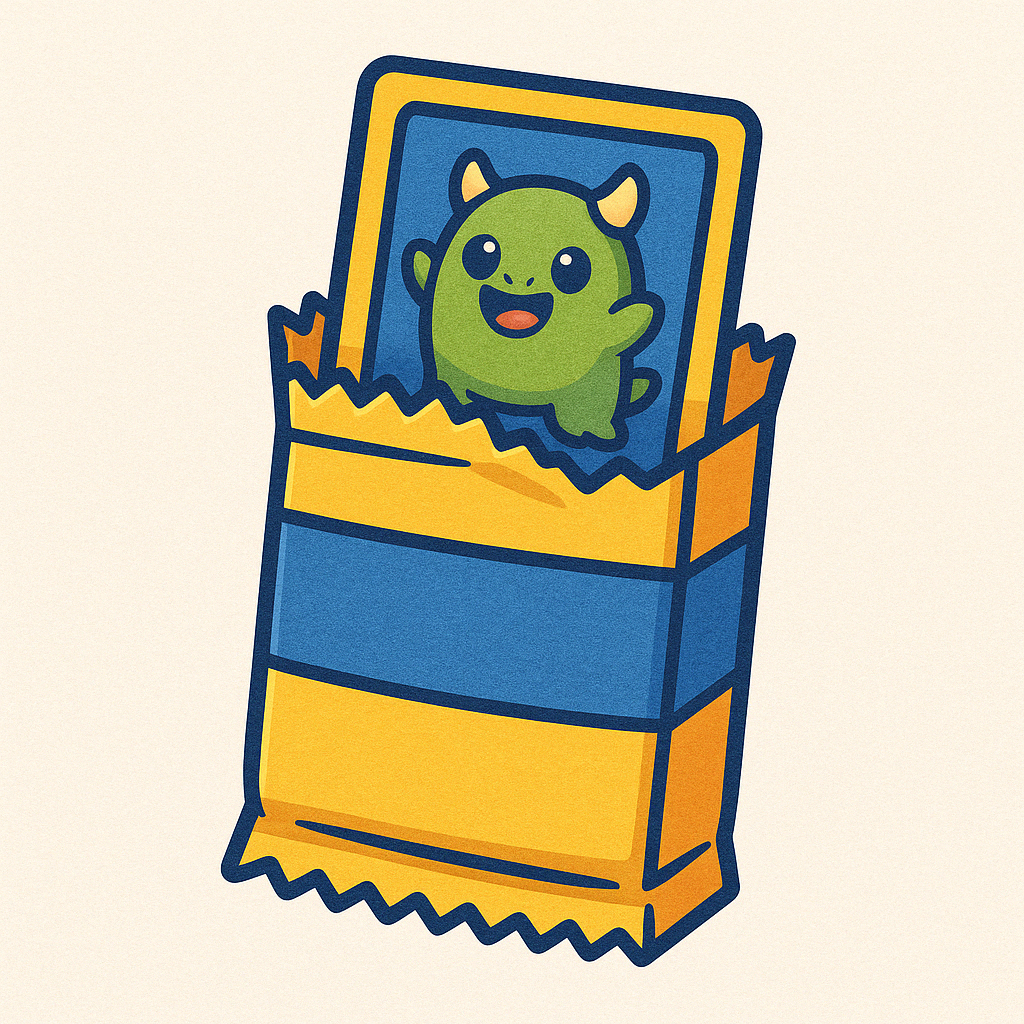
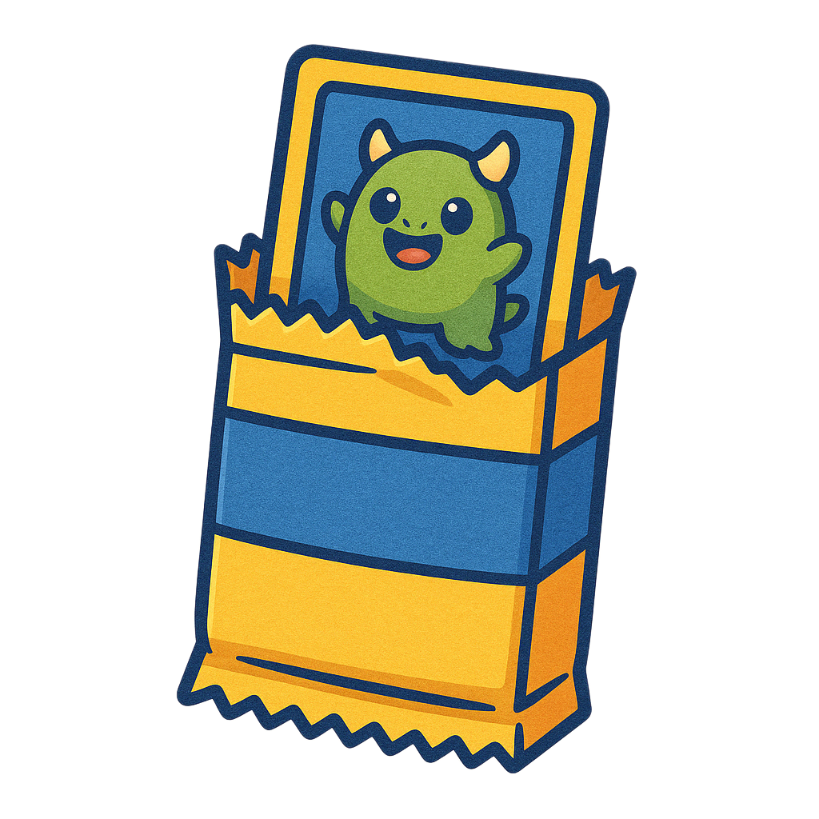
Updated search, updated all images, started to connect frontend to backend and created api search function
-Search now displays 8 of the top results side by side in a row instead of a straight column. It is also in a flex container, so it updates accordingly based on screen size.

- Change images to png so background is transparent

-So instead of calling the Pokémon TCG API directly, our frontend should now call the backend. Once we install and add CORS to Heroku.

diff --git a/TCG/screens/search.tsx b/TCG/screens/search.tsx
@@ -41,7 +41,7 @@ const Search = () => {
         },
       });
 
-      setCards(response.data.data.slice(0, 5)); // Show top 5 results
+      setCards(response.data.data.slice(0, 8)); // Show top 5 results
     } catch (error) {
       console.error(error);
       alert('No matching cards found or an error occurred.');
@@ -86,17 +86,18 @@ const Search = () => {
       </TouchableOpacity>
 
       {loading && <ActivityIndicator size="large" color="#5C3B94" />}
-
-      {cards.map((card) => (
-        <View key={card.id} style={styles.cardContainer}>
-          <Text style={styles.cardTitle}>{card.name}</Text>
-          <Image source={{ uri: card.images.large }} style={styles.image} />
-          <Text style={styles.cardInfo}><Text style={styles.bold}>Supertype:</Text> {card.supertype}</Text>
-          <Text style={styles.cardInfo}><Text style={styles.bold}>Subtype:</Text> {card.subtypes?.join(', ')}</Text>
-          <Text style={styles.cardInfo}><Text style={styles.bold}>Set:</Text> {card.set.name}</Text>
-          <Text style={styles.cardInfo}><Text style={styles.bold}>Rarity:</Text> {card.rarity}</Text>
-        </View>
-      ))}
+      <View style={styles.cardGrid}>
+        {cards.map((card) => (
+          <View key={card.id} style={styles.cardContainer}>
+            <Text style={styles.cardTitle}>{card.name}</Text>
+            <Image source={{ uri: card.images.large }} style={styles.image} />
+            <Text style={styles.cardInfo}><Text style={styles.bold}>Supertype:</Text> {card.supertype}</Text>
+            <Text style={styles.cardInfo}><Text style={styles.bold}>Subtype:</Text> {card.subtypes?.join(', ')}</Text>
+            <Text style={styles.cardInfo}><Text style={styles.bold}>Set:</Text> {card.set.name}</Text>
+            <Text style={styles.cardInfo}><Text style={styles.bold}>Rarity:</Text> {card.rarity}</Text>
+          </View>
+        ))}
+      </View>
     </ScrollView>
   );
 };
@@ -125,6 +126,12 @@ const styles = StyleSheet.create({
     padding: 12,
     borderRadius: 10,
     marginBottom: 10,
+  },
+  cardGrid: {
+    flexDirection: 'row',
+    flexWrap: 'wrap',
+    justifyContent: 'center',
+    gap: 20, // or use margin in cardContainer for older RN versions
   },
   button: {
     backgroundColor: '#F2C94C',

diff --git a/TCG/utils/api.js b/TCG/utils/api.js
@@ -1,0 +1,20 @@
+// // utils/api.js
+// export async function fetchPokemonCards(pokemonName) {
+//     try {
+//       console.log(pokemonName)
+//       const response = await fetch(`https://tcp-pokemon-api.herokuapp.com/api/pokemon/${pokemonName}`);
+  
+//       if (!response.ok) {
+//         throw new Error(`Failed to fetch cards: ${response.status}`);
+//       }
+  
+//       const data = await response.json();
+//       console.log('API response:', data); // ← this line helps you debug
+
+//       return data; // make sure this matches your backend's response structure
+//     } catch (err) {
+//       console.error('API Error:', err);
+//       return null;
+//     }
+//   }
+  

diff --git a/TCG/screens/profile.tsx b/TCG/screens/profile.tsx
@@ -19,8 +19,8 @@ export default function ProfileScreen() {
 
       <Image source={require('../assets/images/_profile.png')} style={styles.topImage} />
 
-      <Text style={styles.title}>Your Profile!!</Text>
-      <Text style={styles.subtitle}>PLACEHOLDER_RANK • PLACEHOLDER_NAME</Text>
+      <Text style={styles.title}>Your Profile!</Text>
+      <Text style={styles.subtitle}>Manage and Update your profile.</Text>
 
       <View style={styles.buttonGroup}>
         <TouchableOpacity style={[styles.button, styles.buttonGreen]}>

diff --git a/TCG/app/signup.tsx b/TCG/app/signup.tsx
@@ -24,7 +24,7 @@ export default function SignupScreen() {
       <ScrollView contentContainerStyle={styles.inside}>
         <View style={styles.card}>
           <Image
-            source={require('../assets/images/PackSwap2.png')}
+            source={require('../assets/images/_logo.png')}
             style={styles.logo}
             resizeMode="contain"
           />

diff --git a/TCG/app/login.tsx b/TCG/app/login.tsx
@@ -25,7 +25,7 @@ export default function LoginScreen() {
       <ScrollView contentContainerStyle={styles.inside}>
         <View style={styles.card}>
           <Image
-            source={require('../assets/images/PackSwap2.png')}
+            source={require('../assets/images/_logo.png')}
             style={styles.logo}
             resizeMode="contain"
           />
